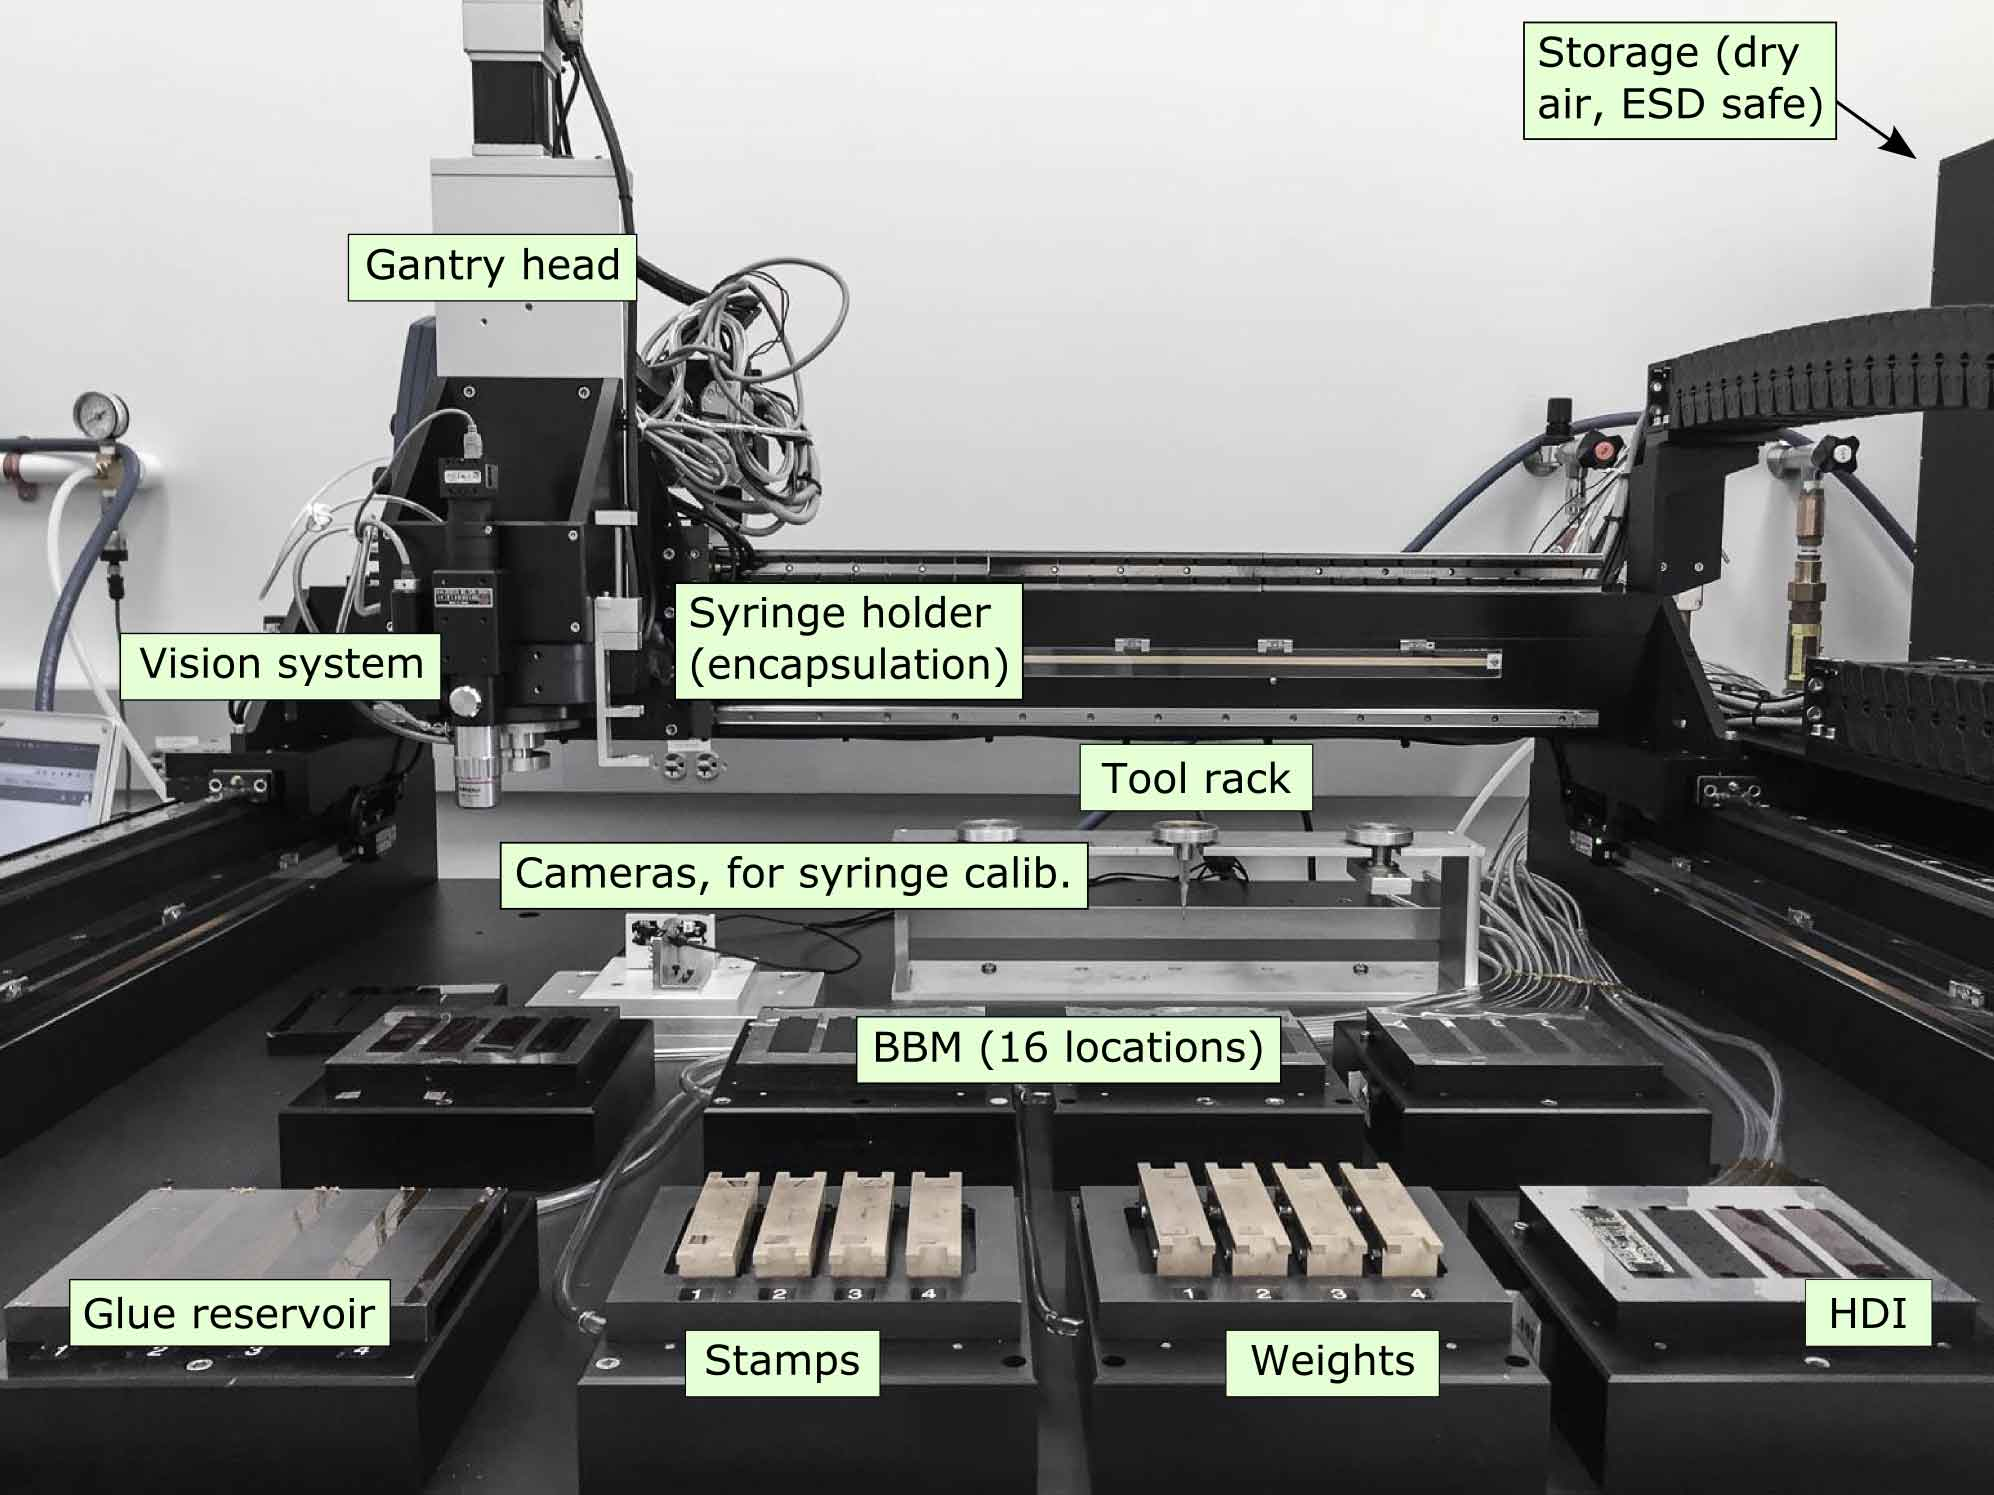
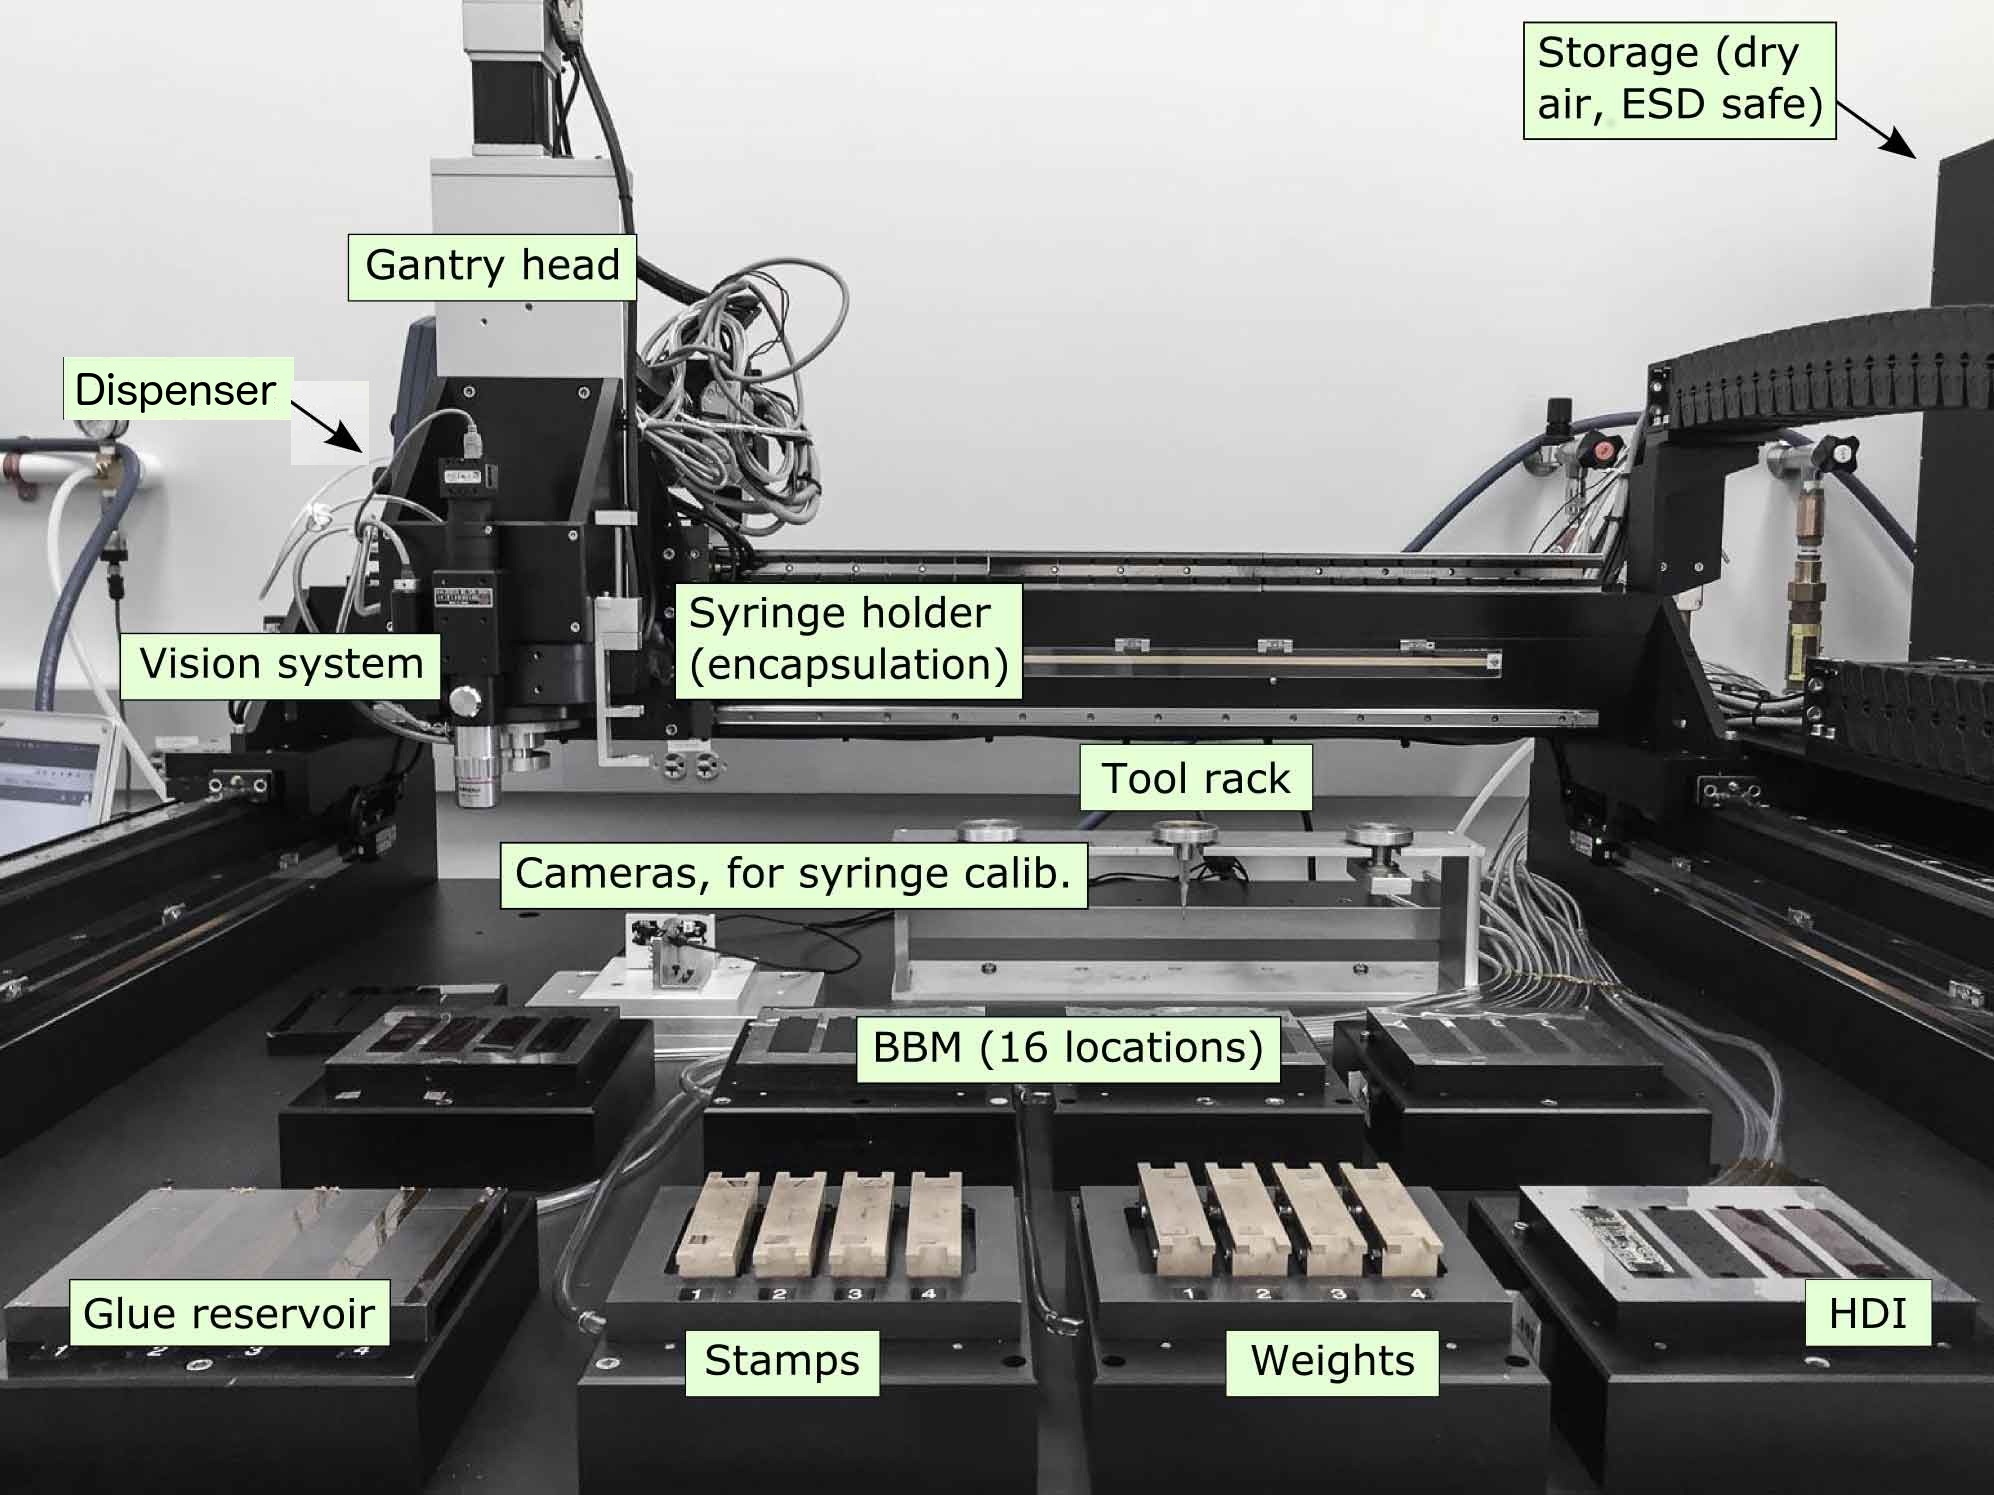
SOP 105 updates

Changed region(s): [[0.0311, 0.2154, 0.1866, 0.3077]]

diff --git a/UNL-PxPhI-SOP-105.tex b/UNL-PxPhI-SOP-105.tex
@@ -1,6 +1,6 @@
 \documentclass[12pt]{unlsilabsop}
 \title{Module assembly: Encapsulation of wirebonds}
-\date{August 6, 2015}
+\date{October 1, 2015}
 \author{Frank Meier Aeschbacher, José Andres Monroy}
 \approved{Frank Meier Aeschbacher}
 \sopid{105}
@@ -29,7 +29,7 @@ Wirebonds should receive protection by applying an encapsulant. This is the fina
 
 %------------------------------------------------------------------
 \section{Equipment}
-\begin{figure}[h]
+\begin{figure}[ht]
     \begin{center}
         \includegraphics[scale= 0.3]{img/potting_materials.jpg}
         \caption{Material to prepare Sylgard}
@@ -37,7 +37,7 @@ Wirebonds should receive protection by applying an encapsulant. This is the fina
     \end{center}
 \end{figure}
 
-\begin{figure}[h]
+\begin{figure}[ht]
   \begin{center}
     \includegraphics[width=\textwidth]{img/potting_reference.jpg}
     \caption{ROC-HDI encapsulation sample for comparison, all the bond foots and pads are fully covered as needed. The boundaries of the encapsulant enhanced with red lines for better visibility.}
@@ -45,10 +45,10 @@ Wirebonds should receive protection by applying an encapsulant. This is the fina
   \end{center}
 \end{figure}
 
-\begin{figure}[h]
+\begin{figure}[ht]
     \begin{center}
         \includegraphics[width=\textwidth]{img/gantryFull16labeled.jpg}
-        \caption{Gantry setup. The gantry is used for glueing too (SOP-103). For encapsulation, the relevant parts are the gantry head, the vision system, the syringe holder, the cameras for syringe calibration and the BBM chucks. Note: arrangement may vary as long as it matches the setup in the software.}
+        \caption{Gantry setup. The gantry is used for glueing too (SOP-103). For encapsulation, the relevant parts are the gantry head, the vision system, the syringe holder, the cameras for syringe calibration and the BBM chucks (the base chuck + carrier (plate) chuck) . Note: arrangement may vary as long as it matches the setup in the software.}
         \label{fig:gantryFullLabeled}
     \end{center}
 \end{figure}
@@ -57,22 +57,29 @@ Wirebonds should receive protection by applying an encapsulant. This is the fina
     \item Gantry
     \item Nordson ESD Ultumus I dispenser
     \item Chucks equipped with carrier chucks for modules
-    \item Encapsulant: Sylguard 186 two-component encapsulant. Consists of erastomer base and elastomer curing agent.
-    \item Test tube to mix encapsulant
-    \item Electronic scale.
-    \item Spatula
-    \item Disposable syringes for measuring volumes: 1\,cc size for curing agent and 10\,cc size for base
-    \item Disposable syringe for dispenser, 5\,cc size, Nordson ESD, part no.~7012094
-    \item Dispenser needle, color code: lavender, Nordson ESD part no. 7018433
-    \item Disposable end cap for syringe, 5\,cc size, Nordson ESD, part no.~7012192
-    \item Centrifuge
-    \item Polyimide sheets, to cover chuck positions if not running a full batch of 4 modules
-    \item Felt tip marker, to write batch number on chuck
-    \item Curing oven
-    \item Empty module carriers, amount matching number of modules to be encapsulated
-    \item Allen key
-    \item Binder clip, 15\,mm wide, inside insulated with Kapton tape
+    \item Encapsulant: Sylguard 186 two-component encapsulant. Consists of erastomer base and elastomer curing agent.$^*$
+    \item Disposable syringes for measuring volumes: 1\,cc size for curing agent and 10\,cc size for base.$^*$ 
+    \item Disposable syringe for dispenser, 5\,cc size, Nordson ESD, part no.~7012094.$^*$
+    \item Disposable end cap for syringe, 5\,cc size, Nordson ESD, part no.~7012198$^*$
+    \item Test tube to mix encapsulant$^*$
+    \item Electronic scale.$^{**}$
+    \item Centrifuge$^{**}$
+    \item Spatula$^{***}$
+    \item Vacuum pen$^{***}$
+    \item Dispenser needle, color code: lavender, Nordson ESD part no. 7018433$^{***}$
+    \item Felt tip marker, to write batch number on chuck$^{***}$
+    \item Empty module carriers, amount matching number of modules to be encapsulated$^{****}$ 
+    \item Allen key$^{***}$
+    \item Binder clip, 15\,mm wide, inside insulated with Kapton tape$^{****}$ 
+    \item Polyimide sheets, to cover chuck positions if not running a full batch of 4 modules (normally they are located on the chucks)
+    \item Curing oven (Located  on the table in front of the picoprobe/test station).
 \end{itemize}
+
+These materials are located at: \\
+$^*$: Gowning room $\to$ bottom right cabinet $\to$ top level.\\
+$^{**}$: Outside the clean room over the table to the left of the sink.\\ 
+$^{***}$: Gantry table. \\
+$^{****}$: Clean room, $\to$ top right cabinet $\to$ mid level.\\  
 
 %------------------------------------------------------------------
 \section{Procedure}
@@ -82,45 +89,63 @@ The procedure below is good for encapsulation of a larger number of modules than
     \item Handle modules only with proper protection: ESD wristband, gloves, face mask.
     \item Perform a readiness check of the gantry:
     \begin{enumerate}
-	\item Test presence of vaccum on the gauge, record the pressure.
-	\item Test presence of compressed air by engaging the dispenser
-        \item Turn on the Npaq controller and the power supply (located in the rack below the Npaq)
+	\item Test presence of vaccum on the gauge.
+	\item Test presence of compressed air by checking the pressure in the dispenser screen.
+        \item Turn on the Npaq controller and the power supply (located in the rack below the Npaq) (figure \ref{turn_on})
+          \begin{figure}[ht]
+            \begin{center}
+              \includegraphics[width=\textwidth]{img/turn_on.jpg}
+              \caption{Turn on buttons (encircled in red) for NPaq controller (top left) and power supply (top right); also the ``connect'' icon in the Aerotech motion composer software(bottom right) and the start buttom of the curing oven (bottom left).}
+              \label{turn_on}
+            \end{center}
+          \end{figure}
         \item Open LabView control software ``potting\_dev\_version(main)'' located at $$ \sim\backslash MyDocuments\backslash andres\backslash routine\backslash development\backslash potting \backslash potting\_dev\_version(main)$$
-        \item Start the A3200 motion composer sofware (taskbar) and connect the controller by pressing the ``connect'' button.
-       \item Pick modules from storage and identify them. Check that the parts satisfy the quality criteria by retrieving their information in the database. \label{enum:startenacpulation}
-    \item Record the UNL id (\texttt{Nxxxyy}) for each module. Write down the number on the edge of the chuck for further identification.
+        \item Start the A3200 motion composer sofware (taskbar) and connect the controller by pressing the ``connect'' button  (figure \ref{turn_on}).
+       \item Pick modules from storage and identify them. Check that the parts satisfy the quality criteria by retrieving their information in the database. \label{enum:startencapsulation}
+    \item Record the UNL id (\texttt{Nxxxyy}) for each module. Write down this number on the edge of the chuck for further identification.
     \end{enumerate}
-  \item Run the LabVIEW control software. Supervise progress and stop in need, especially when modules are at risk. Some pop-up windows will appears asking for information:
+  \item Run the LabVIEW control software. Supervise progress and stop in need, especially when modules are at risk. Three pop-up windows will appears asking for information (one at a time):
     \begin{enumerate}
     \item is the vacuum active?
     \item distribution to be used (spots in use).  
     \item modules identification.  
     \end{enumerate}
+    Provide the required information and press ok accordingly
+
   \item Run pattern recognition step by pressing the ``1.~Find potting reference positions'' button. (The camera will go through the HDI's potting positions and then through the modules potting positions)
     \begin{enumerate}
     \item Select the configuration to be used: test$\to$ testing purpose; HDIV3 + module $\to$ module encapsulation (wait 30 seconds while the program is loading some data). 
-    \item First part is the fiducial recognition: for every single fiducial, check if location found is sound. After go through the 4 fiducials a pop-up window will ask if any of the found positions needs to be corrected. If the fiducial is not found, the manual mode becomes active, use the joystick to define the fiducial position. The manual mode is accesible anytime by pressing the ``switch to manual mode'' button.   
-    \item Second part is the potting reference positions definition: Adjust the positions using the joystick and define them position by pressing the ``capture position'' button. Pay special attention to the focus (z coordinate); recall, there are 82 positions/module to be defined. 
+    \item First part is the fiducial recognition: for every single fiducial, check if location found is sound; to do so,look at the statistical information in the front panel. After go through the 4 fiducials a pop-up window will ask if any of the found positions needs to be corrected. If the fiducial is not found, the manual mode becomes active, use the joystick to define the fiducial position. The manual mode is accesible anytime by pressing the ``switch to manual mode'' button.   
+    \item Second part is the potting reference positions definition: Adjust the positions using the joystick and define them position by pressing the ``capture position'' button. Pay special attention to the focus (z coordinate); recall, there are 82 positions/module to be defined. Some good reference position examples are shown in the figure \ref{ref_positions} 
+    \begin{figure}[ht]
+            \begin{center}
+              \includegraphics[width=\textwidth]{img/ref_positions.jpg}
+              \caption{Examples of good reference positions for encapsulation. Top: left $\to$ HV pad on HDI; center $\to$ pad on the ROC; right $\to$ TBM corner. Bottom: several pads on the HDI.}
+              \label{ref_positions}
+            \end{center}
+          \end{figure}
     \item Write comments if any and press the ``send comments'' button to finish the step .
     \end{enumerate}
   \item Prepare encapsulant in lab outside the cleanroom:\label{enum:prepencapsulant}
     \begin{enumerate}
         \item Check expiration date of both ingredients. Replace if expired.
 	\item Record batch number and expiration date of encapsulant.
-        \item put a piece of paper on the electronic scale an adjust the zero.
+        \item put theplastic sheet on the electronic scale an adjust the zero.
 	\item Take $\approx$ 0.3\,cc of curing agent using the 1\,cc syringe and deposit 0.3\,g on the paper in the scale. Adjust the zero again 
         \item Take $\approx$ 3.0\,cc of base elastomer using the 10\,cc sysringe and deposit 3.48\,g on the paper in the scale. Take the paper from the scale and mix the ingredients
         \item Transfer the mixture to the dispenser syringe (dont forget to use the end cap).  
 	\item Fill another test tube with water
 	\item Place both tubes in centrifuge at opposite location to balance rotor.
 	\item Centrifuge for 2\,min. Repeat until encapsulant shows no bubbles anymore.
+        \item Clean the plastic sheet using Alcohol and paper towels
 	\item Transfer syringe into cleanroom
+
     \end{enumerate}
     \item Attach tube to syringe and insert syringe into holder at gantry head (end cap has to be removed).
     \item Install the needle.
     \item Run the Encapsulation by pressing the ``2.~Encapsulation'' button. a pop-up window will ask you for install the syringe into the holder which should be already done.
     \item proceed to determine (calibrate) the position of the needle tip. A pop-up window will appears showing the image from the camera 2 in the webcam setup. Use the joystick to move the gantry until the needle tip is in the center of the screen (the center of the needle tip coincides with the red cross in the screen), then switch to camera 3 and repeat the process, once the needle tip is in the center of both images (from cameras 2 and 3) press the button ``calibrate''.
-    \item Purge the syringe by pressing the ``Purge'' button (as requested by the pop-up window).
+    \item Purge the syringe by pressing the ``Purge'' button (as requested by the pop-up window). Wipe the needle tip using a pieece of paper being careful not to touch it. 
     \item Start the encapsulation by pressing the button ``start potting''. A control will appears asking for uncheck the irregular wirebonds or the sylgard traces that must be skipped.     
     \item At the end of the full cycle, check visually if all wirebond foots are covered as needed (see fig. \ref{fig:potting_reference} for reference); record observations in the comments box.
     \item Write comments and press the ``send comments'' button to finish the step. 
@@ -129,7 +154,7 @@ The procedure below is good for encapsulation of a larger number of modules than
     \item To correct for any missing encapsulant run again the program, define the new potting reference positions as needed and check only the traces that needs to be corrected. record such special action in the comments box.
     \item Document all actions even if the curing time may not be over.
     \item Remove the syringe and dispose off.   
-    \item If more than one chuck full of modules needs to be encapsulated, repeat from step \ref{enum:startenacpulation} as often as needed.
+    \item If more than one chuck full of modules needs to be encapsulated, repeat from step \ref{enum:startencapsulation} as often as needed.
     \item When all modules of a chuck are encapsulated, remove the chuck and transfer it (with the modules on it) to a work space.
     \begin{enumerate}
         \item Prepare the appropriate amount of module carriers. Open and remove the black covers. Loosen the screws of the slotted end-positioner and move the end-positioner to its outmost position.
@@ -139,7 +164,7 @@ The procedure below is good for encapsulation of a larger number of modules than
         \item Attach the black plastic cover and tighten the four screws by hand.
         \item Use a Kapton-insulated binder clip to protect the contacts of the loose end of the flex cable from accidental touching.
     \end{enumerate}
-    \item Place up to four modules into the curing oven and start a program (1 hour at 50$^\circ$C).
+    \item Place up to four modules into the curing oven and start the program (1 hour at 50$^\circ$C) by pressing the button ``start'' (see figure \ref{turn_on} bottom left) on the box aside the oven.
     \item When finished, remove the modules fron the oven. Update the database and hand the modules over for visual inspection (SOP~205) and electrical testing (SOP~206).
 \end{enumerate}
 
